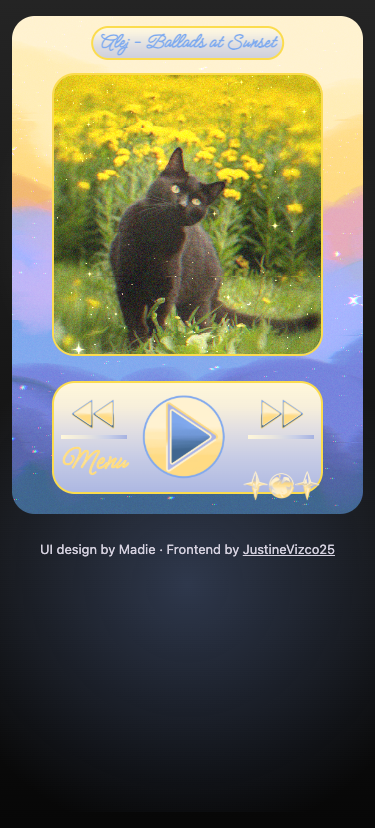
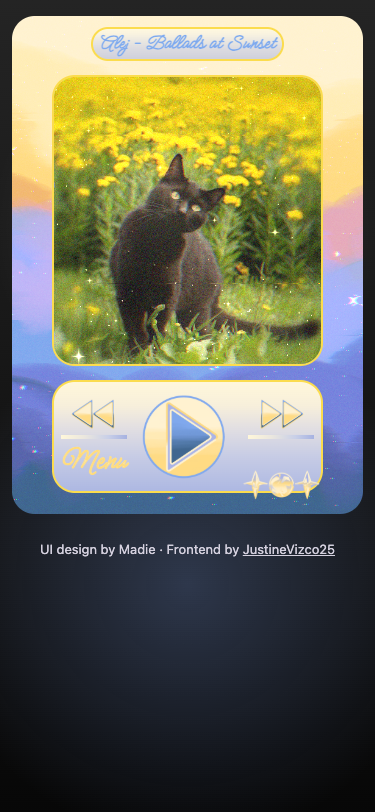
fix: adapt the player to short screens and landscape layouts
Use a flowing grid to keep titles clear of the artwork, including when the design font is unavailable. Fit portrait cards to the available height, place artwork beside controls on short landscape screens, and remove unnecessary page scrolling. Verify all songs across eleven viewport sizes with both font-loading outcomes; refresh the README and previews.

Changed region(s): [[0.0293, 0.0308, 0.968, 0.7081], [0.0293, 0.3695, 0.0587, 0.4002], [0.0293, 0.1539, 0.0587, 0.1847]]

diff --git a/tests/player.spec.js b/tests/player.spec.js
@@ -176,33 +176,60 @@ test('every track decodes and loads its matching artwork and seasonal controls',
     expect(errors).toEqual([]);
 });
 
-for (const width of [320, 375, 768, 1440]) {
-    test(`keeps every song title and the controls inside a ${width}px viewport`, async ({ page }) => {
-        await page.setViewportSize({ width, height: 1000 });
-        await page.evaluate(() => document.fonts.ready);
-        for (let index = 0; index < 14; index++) {
-            const bounds = await page.evaluate(() => {
-                const title = document.querySelector('#music-info-container');
-                const cover = document.querySelector('#music-cover-container');
-                const targets = ['#music-player', '#music-info-container', '#previous-control-top', '#next-control-top', '#play-pause-control', '#menu-control-bottom'];
-                return {
-                    overflow: document.documentElement.scrollWidth > innerWidth,
-                    titleOverlapsCover: title.getBoundingClientRect().bottom > cover.getBoundingClientRect().top,
-                    fits: targets.every(selector => {
-                        const rect = document.querySelector(selector).getBoundingClientRect();
-                        return rect.left >= 0 && rect.right <= innerWidth;
-                    }),
-                    touchTargets: [...document.querySelectorAll('#controls-container button')].every(button => {
-                        const rect = button.getBoundingClientRect();
-                        return rect.width >= 44 && rect.height >= 44;
-                    }),
-                };
-            });
-            expect(bounds).toEqual({ overflow: false, titleOverlapsCover: false, fits: true, touchTargets: true });
-            await page.getByRole('button', { name: 'Next song' }).click();
-        }
-        await page.getByRole('button', { name: 'Menu', exact: true }).click();
-        await expect(page.getByRole('dialog')).toBeInViewport();
-        await page.getByRole('button', { name: 'Close song menu' }).click();
-    });
+const viewports = [
+    { width: 280, height: 653 },
+    { width: 320, height: 568 },
+    { width: 375, height: 667 },
+    { width: 480, height: 320 },
+    { width: 568, height: 320 },
+    { width: 667, height: 375 },
+    { width: 844, height: 390 },
+    { width: 768, height: 1024 },
+    { width: 1024, height: 768 },
+    { width: 1280, height: 720 },
+    { width: 1440, height: 900 },
+];
+
+for (const viewport of viewports) {
+    for (const blockFont of [false, true]) {
+        const fontDescription = blockFont ? 'fallback fonts' : 'the design font';
+        test(`keeps every song usable at ${viewport.width}x${viewport.height} with ${fontDescription}`, async ({ page }) => {
+            if (blockFont) {
+                await page.route('https://fonts.googleapis.com/**', route => route.abort());
+                await page.reload();
+            }
+            await page.setViewportSize(viewport);
+            await page.evaluate(() => document.fonts.ready);
+            for (let index = 0; index < 14; index++) {
+                const bounds = await page.evaluate(() => {
+                    const rect = selector => document.querySelector(selector).getBoundingClientRect();
+                    const title = rect('#music-info-container');
+                    const cover = rect('#music-cover-container');
+                    const controls = rect('#controls-container');
+                    const intersects = (a, b) => a.left < b.right - 0.5 && a.right > b.left + 0.5
+                        && a.top < b.bottom - 0.5 && a.bottom > b.top + 0.5;
+                    const targets = ['#music-player', '#music-info-container', '#music-cover-container', '#controls-container', '#previous-control-top', '#next-control-top', '#play-pause-control', '#menu-control-bottom'];
+                    return {
+                        overflow: document.documentElement.scrollWidth > innerWidth,
+                        verticalOverflow: document.documentElement.scrollHeight > innerHeight,
+                        overlaps: intersects(title, cover) || intersects(title, controls) || intersects(cover, controls),
+                        fits: targets.every(selector => {
+                            const target = rect(selector);
+                            return target.left >= -0.5 && target.right <= innerWidth + 0.5
+                                && target.top >= -0.5 && target.bottom <= innerHeight + 0.5;
+                        }),
+                        touchTargets: [...document.querySelectorAll('#controls-container button')].every(button => {
+                            const target = button.getBoundingClientRect();
+                            return target.width >= 44 && target.height >= 44;
+                        }),
+                    };
+                });
+                expect(bounds, `Song ${index + 1}`).toEqual({ overflow: false, verticalOverflow: false, overlaps: false, fits: true, touchTargets: true });
+                await page.getByRole('button', { name: 'Next song' }).click();
+            }
+            await page.getByRole('button', { name: 'Menu', exact: true }).click();
+            await expect(page.getByRole('dialog')).toBeInViewport();
+            await page.getByRole('button', { name: 'Close song menu' }).click();
+        });
+    }
 }

diff --git a/index.css b/index.css
@@ -1,6 +1,7 @@
 
 body {
     margin: 0;
+    display: flow-root;
     min-height: 100svh;
     font-family: system-ui, sans-serif;
     color: #f4f0fa;
@@ -50,19 +51,28 @@ body[data-season="winter"]::before {
 /* Keep Madie's proportions while sizing the player to the available width. */
 #main-container {
     position: relative;
-    width: min(558px, calc(100% - 24px));
+    width: min(558px, calc(100% - 24px), max(296px, calc((100svh - 112px) * 0.7045)));
     margin: 35px auto 16px;
     container-type: inline-size;
 }
 
 #music-player {
     position: relative;
+    isolation: isolate;
     width: 100%;
     aspect-ratio: 620 / 880;
+    box-sizing: border-box;
+    display: grid;
+    grid-template-areas: "title" "cover" "controls";
+    grid-template-columns: minmax(0, 1fr);
+    grid-template-rows: auto minmax(0, 1fr) max(100px, 32.2cqw);
+    gap: 4cqw;
+    padding: 3cqw 11.3cqw 5.9cqw;
 }
 
 #music-background {
     position: absolute;
+    z-index: -1;
     inset: 0;
     width: 100%;
     height: 100%;
@@ -71,14 +81,14 @@ body[data-season="winter"]::before {
 }
 
 #music-info-container {
-    position: absolute;
+    grid-area: title;
+    justify-self: center;
+    position: relative;
     z-index: 2;
-    top: 2.8cqw;
-    left: 50%;
-    transform: translateX(-50%);
     box-sizing: border-box;
     width: max-content;
-    max-width: 88%;
+    min-width: 0;
+    max-width: calc(100% + 12cqw);
     padding: 1cqw 5cqw;
     border: 2px solid rgb(251, 220, 78);
     border-radius: 6.5cqw;
@@ -91,11 +101,9 @@ body[data-season="winter"]::before {
 }
 
 #music-cover-container {
-    position: absolute;
-    top: 11.36%;
-    left: 11.3%;
-    width: 77.4%;
-    height: 56.8%;
+    grid-area: cover;
+    min-width: 0;
+    min-height: 0;
 }
 
 .music-cover-frame {
@@ -138,11 +146,9 @@ a:focus-visible {
 }
 
 #controls-container {
-    position: absolute;
-    bottom: 4.1%;
-    left: 11.3%;
-    width: 77.4%;
-    height: 22.7%;
+    grid-area: controls;
+    position: relative;
+    min-width: 0;
     box-sizing: border-box;
     display: flex;
     align-items: center;
@@ -344,10 +350,86 @@ footer a {
 @media (max-width: 420px) {
     #main-container { margin-top: 16px; }
     #music-info-container {
-        max-width: 94%;
         padding: 1cqw 2cqw;
         font-size: 6cqw;
     }
+}
+
+/* Use the horizontal space on short screens while keeping touch targets usable. */
+@media (min-width: 480px) and (max-height: 600px) and (orientation: landscape) {
+    #main-container {
+        width: min(860px, calc(100% - 32px));
+        margin: 12px auto;
+    }
+
+    #music-player {
+        aspect-ratio: auto;
+        height: max(260px, min(480px, calc(100svh - 88px)));
+        grid-template-areas: "title title" "cover controls";
+        grid-template-columns: minmax(0, 1fr) minmax(0, 1fr);
+        grid-template-rows: auto minmax(0, 1fr);
+        gap: 12px 24px;
+        padding: 16px 24px 24px;
+    }
+
+    #music-background,
+    .music-cover-frame,
+    #controls-container {
+        border-radius: 24px;
+    }
+
+    #music-info-container {
+        max-width: 100%;
+        padding: 4px 16px;
+        font-size: clamp(20px, 3.5vw, 30px);
+    }
+
+    #music-cover-container {
+        justify-self: center;
+        width: min(100%, calc(100svh - 180px));
+    }
+
+    #controls-container {
+        align-self: center;
+        height: min(100%, 180px);
+        gap: 8px;
+        padding: 8px;
+    }
+
+    #previous-control-top,
+    #next-control-top {
+        height: clamp(44px, 7vw, 64px);
+    }
+
+    #previous-song-button,
+    #next-song-button {
+        width: clamp(44px, 7vw, 64px);
+        height: clamp(44px, 7vw, 64px);
+    }
+
+    #controls-section-divider,
+    #right-controls-section-divider {
+        height: 4px;
+    }
+
+    #play-pause-control {
+        max-width: 120px;
+    }
+
+    #menu-control-bottom {
+        font-size: clamp(22px, 4vw, 38px);
+    }
+
+    #next-control-bottom {
+        height: 44px;
+    }
+
+    #decoration {
+        width: clamp(64px, 12vw, 100px);
+        height: clamp(64px, 12vw, 100px);
+    }
+
+    footer { margin: 12px auto; }
 }
 
 @media (prefers-reduced-motion: reduce) {

diff --git a/index.html b/index.html
@@ -15,8 +15,8 @@
     <body>
         <h1 class="visually-hidden">Madie Music Player</h1>
         <main id="main-container" aria-label="Seasonal music player">
-            <div id="music-info-container" class="music-info-container" role="status" aria-live="polite"></div>
             <div id="music-player" class="music-player">
+                <div id="music-info-container" class="music-info-container" role="status" aria-live="polite"></div>
                 <img id="music-background" class="music-background" alt="">
                 <div id="music-cover-container" class="music-cover-container">
                     <div class="music-cover-frame">

diff --git a/README.md b/README.md
@@ -13,7 +13,7 @@ The project is named after Madie to acknowledge her UI design. My contribution i
 1. [Run the project locally](#run-locally) and press **Play**. The player starts paused so that playback begins with a user action.
 2. Use **Next** and **Previous** to move through the 14-song playlist. Navigation wraps at both ends and keeps the current playing or paused state.
 3. Open **Menu** and choose a track from another season. For example, **Day Dream** uses the autumn theme and **Solas** uses winter. The artwork and controls change together.
-4. Resize the browser to a phone width. The player keeps the illustrated layout, with controls that remain usable by touch.
+4. Resize the browser to a phone width, then try a short landscape window. The portrait card fits the available height, and the landscape layout puts the artwork beside the controls.
 5. Try the same flow with **Tab**, **Enter**, and **Space**. Close the song menu with **Escape**; focus returns to Menu.
 
 For a code review, start with [index.html](index.html), then the playlist and playback functions in [songs/index.js](songs/index.js), the layout in [index.css](index.css), and the behavior checks in [tests/player.spec.js](tests/player.spec.js).
@@ -23,7 +23,7 @@ For a code review, start with [index.html](index.html), then the playlist and pl
 | Frontend skill | Where it appears |
 | --- | --- |
 | Translating a UI design into code | Illustrated controls, layered cover artwork, gradients, and four coordinated seasonal appearances |
-| Responsive CSS | A fluid player width, proportional layout, container-relative sizing, and narrow-screen title handling |
+| Responsive CSS | A flowing grid, height-aware portrait sizing, a compact landscape layout, and titles that wrap safely with fallback fonts |
 | DOM and event handling | Song selection, control updates, active playlist items, and theme changes without reloading the page |
 | Browser audio APIs | One audio element, explicit playback, track transitions, automatic advancement, and error recovery |
 | Asynchronous state management | Playback intent and request IDs prevent an old rejected play promise from resetting a newer track |
@@ -36,7 +36,7 @@ For a code review, start with [index.html](index.html), then the playlist and pl
 - Play/pause, previous/next, and automatic advancement when a track ends.
 - A song menu that highlights the current selection.
 - Matching cover art, background, navigation icons, play/pause icons, borders, and gradients.
-- Responsive layout checked at 320, 375, 768, and 1440 pixels wide.
+- Portrait and landscape layouts checked across 11 window sizes, from 280×653 to 1440×900, with the design font and fallback fonts.
 - Messages for blocked playback and missing or unplayable audio.
 - Visible credit for the designer and frontend developer.
 
@@ -65,9 +65,11 @@ Open **http://127.0.0.1:4173**. Stop the server with **Ctrl+C**.
 The application itself has no JavaScript framework or runtime package dependencies. The npm packages provide a local static server and browser tests. Google Fonts supplies the Meow Script typeface; the stylesheet includes a cursive fallback.
 
 <details>
-<summary>Phone preview</summary>
+<summary>Phone previews: portrait and landscape</summary>
 
 <img src="docs/screenshots/player-mobile.png" alt="The complete seasonal player and design credit at a 375 pixel phone width" width="320">
+
+<img src="docs/screenshots/player-landscape.png" alt="The compact landscape layout with cover artwork beside the playback controls" width="640">
 
 </details>
 
@@ -79,7 +81,7 @@ One `HTMLAudioElement` handles the playlist. `isPlaybackRequested` records wheth
 
 Previous and next use wraparound indices. The audio element's `ended` event selects the next track and starts it. Selecting a song from Menu preserves the current playback intent. Selecting the already active song leaves its playback position alone.
 
-The player uses a fixed aspect ratio and proportional placement to retain the design as its width changes. A native `<dialog>` supplies modal focus behavior and Escape handling; song titles and playback messages use live status regions.
+The player uses CSS Grid so the song title, cover, and controls occupy separate layout areas. The portrait card retains the original proportions and sizes itself using both the available width and window height. Short landscape windows use a two-column arrangement with the cover beside the controls. Titles can wrap when the design font is unavailable without overlapping the artwork. A native `<dialog>` supplies modal focus behavior and Escape handling; song titles and playback messages use live status regions.
 
 ## Project structure
 
@@ -115,7 +117,7 @@ The browser suite covers:
 - Blocked playback, a missing audio file, and recovery.
 - Rejected promises from an obsolete or cancelled playback request.
 - Every configured asset path, audio metadata decoding, and image decoding.
-- Layout bounds, title/cover overlap, and minimum 44px control targets at four viewport widths.
+- Horizontal and vertical layout bounds, content overlap, and minimum 44px control targets at 11 portrait and landscape window sizes, both with and without Google Fonts.
 
 GitHub Actions runs the syntax check and browser suite for pushes and pull requests. Automated browser coverage uses Chromium; it does not establish identical behavior across every browser or device.
 
@@ -123,8 +125,8 @@ GitHub Actions runs the syntax check and browser suite for pushes and pull reque
 
 | Finding | Change |
 | --- | --- |
-| The fixed-width player extended beyond phone viewports | Replaced transform-based sizing with a fluid, proportional layout and added viewport metadata |
-| Long song titles could collide with the cover on narrow screens | Adjusted the title width, padding, and type size; checked every song at each test width |
+| The fixed-width player extended beyond phone viewports, and controls fell below short windows | Added a fluid grid, height-aware portrait sizing, a compact landscape arrangement, and viewport metadata |
+| Long song titles could collide with the cover, including when Google Fonts failed | Gave titles their own grid row so wrapping adjusts the cover space; checked every song with both font-loading outcomes |
 | Images and divs acted as controls without keyboard access | Added native buttons, accessible names, and visible focus indicators |
 | Menu was a visual label with no action | Connected it to a keyboard-accessible song dialog |
 | Playback failures had no explanation | Added status messages and a usable recovery path |
